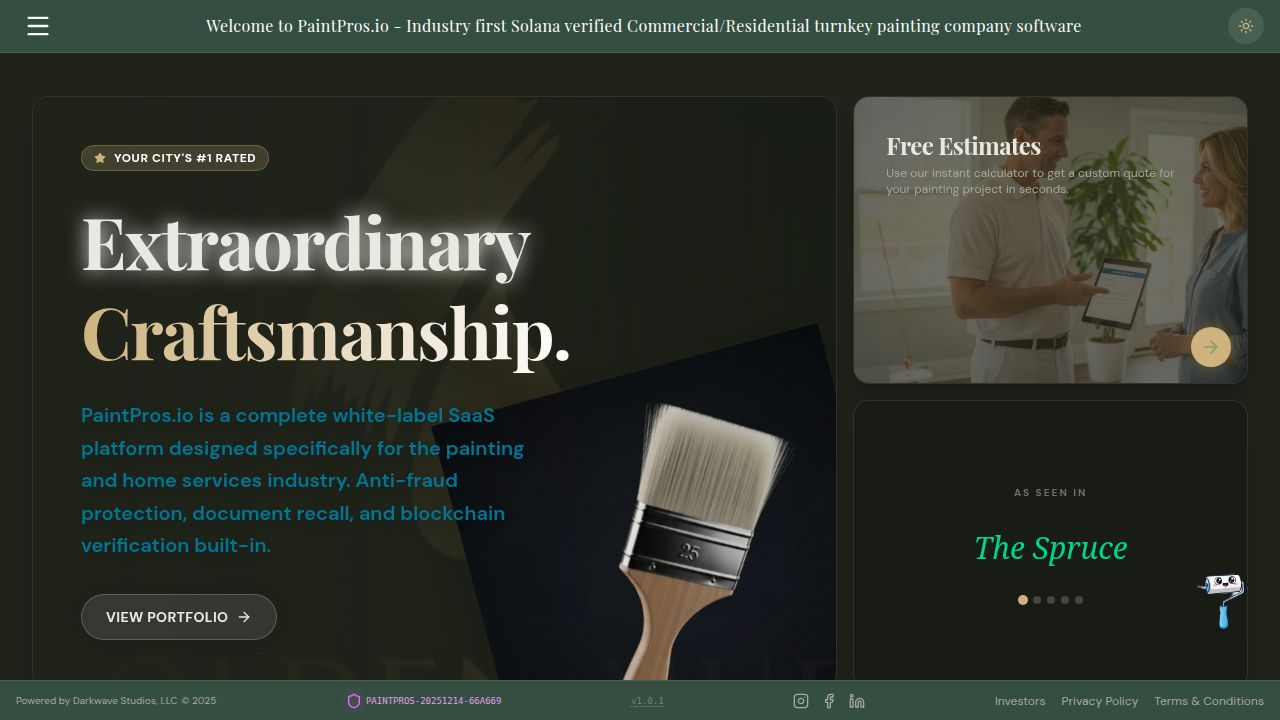
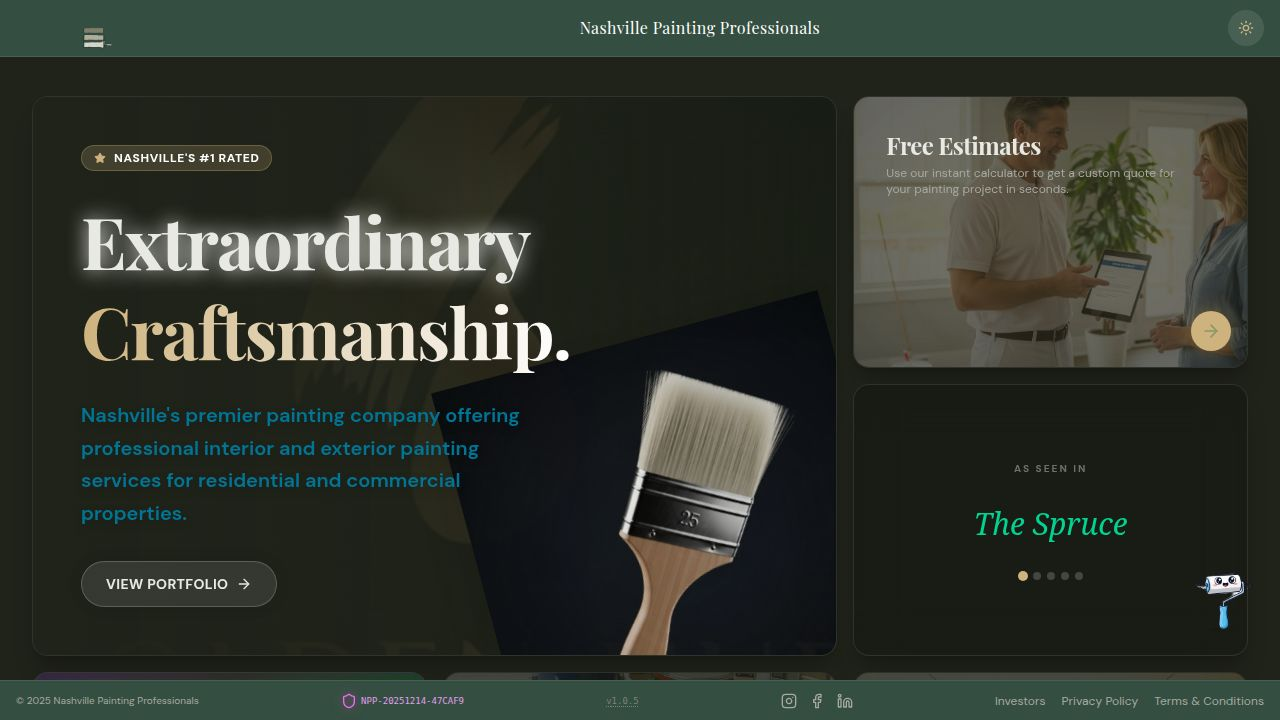
Implement subdomain routing and role-based access control for tenants
This commit introduces subdomain-based multi-tenancy by modifying tenant configuration and routing logic on both the client and server. It also enhances server-side authentication by adding role-based access control middleware, updates the user schema to include role and tenantId, and modifies storage operations to support these changes. The client-side TenantProvider has been updated to dynamically fetch tenant information.

Replit-Commit-Author: Agent
Replit-Commit-Session-Id: 9640b7bd-518e-421e-8382-ba3444a8e185
Replit-Commit-Checkpoint-Type: full_checkpoint
Replit-Commit-Event-Id: 45334b73-9146-4a81-bef5-f3d773d75e12
Replit-Commit-Screenshot-Url: https://storage.googleapis.com/screenshot-production-us-central1/57a1a84c-83d8-41f5-82c5-8661edb484a4/9640b7bd-518e-421e-8382-ba3444a8e185/y7aXQd3
Replit-Helium-Checkpoint-Created: true

diff --git a/server/routes.ts b/server/routes.ts
@@ -17,14 +17,56 @@ import { orbitEcosystem } from "./orbit";
 import * as hallmarkService from "./hallmarkService";
 import { sendContactEmail, type ContactFormData } from "./resend";
 import { setupAuth, isAuthenticated } from "./replitAuth";
+import type { RequestHandler } from "express";
+
+// Role-based access middleware
+const hasRole = (allowedRoles: string[]): RequestHandler => {
+  return async (req, res, next) => {
+    const user = req.user as any;
+    
+    if (!req.isAuthenticated() || !user?.claims?.sub) {
+      return res.status(401).json({ message: "Unauthorized" });
+    }
+    
+    try {
+      const userId = user.claims.sub;
+      const dbUser = await storage.getUser(userId);
+      
+      if (!dbUser) {
+        return res.status(401).json({ message: "User not found" });
+      }
+      
+      if (!dbUser.role || !allowedRoles.includes(dbUser.role)) {
+        return res.status(403).json({ message: "Forbidden: Insufficient role permissions" });
+      }
+      
+      (req as any).dbUser = dbUser;
+      return next();
+    } catch (error) {
+      console.error("Error checking user role:", error);
+      return res.status(500).json({ message: "Failed to verify permissions" });
+    }
+  };
+};
 
 // Domain to tenant mapping (server-side)
+// Full custom domains map directly
 const domainTenantMap: Record<string, string> = {
-  "paintpros.io": "paintpros",
-  "www.paintpros.io": "paintpros",
+  "paintpros.io": "demo",
+  "www.paintpros.io": "demo",
   "nashpaintpros.io": "npp",
   "www.nashpaintpros.io": "npp",
+  "nashvillepaintingprofessionals.com": "npp",
+  "www.nashvillepaintingprofessionals.com": "npp",
   "localhost": "npp",
+};
+
+// Subdomain to tenant mapping for *.paintpros.io
+const subdomainTenantMap: Record<string, string> = {
+  "nashpaintpros": "npp",
+  "npp": "npp",
+  "demo": "demo",
+  "www": "demo",
 };
 
 // PWA manifest configurations per tenant
@@ -56,7 +98,26 @@ const pwaConfigs: Record<string, {
 
 function getTenantFromHostname(hostname: string): string {
   const host = hostname.toLowerCase().split(':')[0]; // Remove port if present
-  return domainTenantMap[host] || "npp";
+  
+  // Check full domain mapping first (custom domains)
+  if (domainTenantMap[host]) {
+    return domainTenantMap[host];
+  }
+  
+  // Check for subdomain pattern: subdomain.paintpros.io
+  const parts = host.split('.');
+  if (parts.length >= 3) {
+    const subdomain = parts[0];
+    const baseDomain = parts.slice(-2).join('.');
+    
+    // Only parse subdomains for paintpros.io
+    if (baseDomain === 'paintpros.io' && subdomainTenantMap[subdomain]) {
+      return subdomainTenantMap[subdomain];
+    }
+  }
+  
+  // Default fallback
+  return "npp";
 }
 
 export async function registerRoutes(
@@ -77,6 +138,17 @@ export async function registerRoutes(
       console.error("Error fetching user:", error);
       res.status(500).json({ message: "Failed to fetch user" });
     }
+  });
+
+  // ============ TENANT API ============
+  
+  // GET /api/tenant - Get tenant ID based on hostname
+  app.get("/api/tenant", (req, res) => {
+    const tenantId = getTenantFromHostname(req.hostname);
+    res.json({ 
+      tenantId,
+      hostname: req.hostname
+    });
   });
 
   // ============ PWA ROUTES (Dynamic per tenant) ============

diff --git a/client/src/config/tenant.ts b/client/src/config/tenant.ts
@@ -266,27 +266,62 @@ export const tenants: Record<string, TenantConfig> = {
   "demo": paintProsDemo,
 };
 
-// Domain to tenant mapping
+// Domain to tenant mapping (custom domains)
 const domainTenantMap: Record<string, string> = {
   "paintpros.io": "demo",
   "www.paintpros.io": "demo",
   "nashpaintpros.io": "npp",
   "www.nashpaintpros.io": "npp",
+  "nashvillepaintingprofessionals.com": "npp",
+  "www.nashvillepaintingprofessionals.com": "npp",
+  "localhost": "npp",
 };
+
+// Subdomain to tenant mapping for *.paintpros.io
+const subdomainTenantMap: Record<string, string> = {
+  "nashpaintpros": "npp",
+  "npp": "npp",
+  "demo": "demo",
+  "www": "demo",
+};
+
+// Parse tenant from hostname (client-side)
+export function getTenantIdFromHostname(hostname: string): string {
+  const host = hostname.toLowerCase().split(':')[0];
+  
+  // Check full domain mapping first
+  if (domainTenantMap[host]) {
+    return domainTenantMap[host];
+  }
+  
+  // Check for subdomain pattern: subdomain.paintpros.io
+  const parts = host.split('.');
+  if (parts.length >= 3) {
+    const subdomain = parts[0];
+    const baseDomain = parts.slice(-2).join('.');
+    
+    if (baseDomain === 'paintpros.io' && subdomainTenantMap[subdomain]) {
+      return subdomainTenantMap[subdomain];
+    }
+  }
+  
+  // Fallback to env variable
+  return import.meta.env.VITE_TENANT_ID || "npp";
+}
 
 // Get current tenant based on domain or environment
 export function getCurrentTenant(): TenantConfig {
-  // Check if we're in a browser environment
   if (typeof window !== "undefined") {
-    const hostname = window.location.hostname.toLowerCase();
-    
-    // Check domain mapping first
-    if (domainTenantMap[hostname]) {
-      return tenants[domainTenantMap[hostname]] || nashvillePaintingProfessionals;
-    }
+    const tenantId = getTenantIdFromHostname(window.location.hostname);
+    return tenants[tenantId] || nashvillePaintingProfessionals;
   }
   
   // Fallback to environment variable (for dev/staging)
   const tenantId = import.meta.env.VITE_TENANT_ID || "npp";
+  return tenants[tenantId] || nashvillePaintingProfessionals;
+}
+
+// Get tenant by ID
+export function getTenantById(tenantId: string): TenantConfig {
   return tenants[tenantId] || nashvillePaintingProfessionals;
 }

diff --git a/client/src/context/TenantContext.tsx b/client/src/context/TenantContext.tsx
@@ -1,5 +1,5 @@
-import { createContext, useContext, ReactNode } from "react";
-import { TenantConfig, getCurrentTenant } from "@/config/tenant";
+import { createContext, useContext, ReactNode, useState, useEffect } from "react";
+import { TenantConfig, getCurrentTenant, getTenantById, getTenantIdFromHostname } from "@/config/tenant";
 
 const TenantContext = createContext<TenantConfig | null>(null);
 
@@ -9,7 +9,47 @@ interface TenantProviderProps {
 }
 
 export function TenantProvider({ children, tenant }: TenantProviderProps) {
-  const currentTenant = tenant || getCurrentTenant();
+  const [currentTenant, setCurrentTenant] = useState<TenantConfig>(
+    tenant || getCurrentTenant()
+  );
+  const [isLoading, setIsLoading] = useState(!tenant);
+
+  useEffect(() => {
+    if (tenant) {
+      setCurrentTenant(tenant);
+      setIsLoading(false);
+      return;
+    }
+
+    async function fetchTenant() {
+      try {
+        const response = await fetch('/api/tenant');
+        if (response.ok) {
+          const data = await response.json();
+          if (data.tenantId) {
+            const tenantConfig = getTenantById(data.tenantId);
+            setCurrentTenant(tenantConfig);
+          }
+        }
+      } catch (error) {
+        console.warn('Failed to fetch tenant from API, using client-side detection');
+        const tenantId = getTenantIdFromHostname(window.location.hostname);
+        setCurrentTenant(getTenantById(tenantId));
+      } finally {
+        setIsLoading(false);
+      }
+    }
+
+    fetchTenant();
+  }, [tenant]);
+
+  if (isLoading) {
+    return (
+      <TenantContext.Provider value={currentTenant}>
+        {children}
+      </TenantContext.Provider>
+    );
+  }
   
   return (
     <TenantContext.Provider value={currentTenant}>

diff --git a/server/storage.ts b/server/storage.ts
@@ -37,6 +37,9 @@ export interface IStorage {
   // User operations (for Replit Auth)
   getUser(id: string): Promise<User | undefined>;
   upsertUser(user: UpsertUser): Promise<User>;
+  getUserByEmail(email: string): Promise<User | undefined>;
+  updateUserRole(id: string, role: string, tenantId?: string): Promise<User | undefined>;
+  getUsersByTenant(tenantId: string): Promise<User[]>;
   
   // Leads
   createLead(lead: InsertLead): Promise<Lead>;
@@ -237,6 +240,24 @@ export class DatabaseStorage implements IStorage {
       })
       .returning();
     return user;
+  }
+
+  async getUserByEmail(email: string): Promise<User | undefined> {
+    const [user] = await db.select().from(users).where(eq(users.email, email));
+    return user;
+  }
+
+  async updateUserRole(id: string, role: string, tenantId?: string): Promise<User | undefined> {
+    const updateData: Partial<User> = { role, updatedAt: new Date() };
+    if (tenantId !== undefined) {
+      updateData.tenantId = tenantId;
+    }
+    const [user] = await db.update(users).set(updateData).where(eq(users.id, id)).returning();
+    return user;
+  }
+
+  async getUsersByTenant(tenantId: string): Promise<User[]> {
+    return await db.select().from(users).where(eq(users.tenantId, tenantId));
   }
 
   // Leads

diff --git a/shared/schema.ts b/shared/schema.ts
@@ -23,6 +23,8 @@ export const users = pgTable("users", {
   firstName: varchar("first_name"),
   lastName: varchar("last_name"),
   profileImageUrl: varchar("profile_image_url"),
+  role: text("role"), // 'developer', 'ops_manager', 'owner', 'area_manager'
+  tenantId: text("tenant_id"), // optional, for multi-tenant support
   createdAt: timestamp("created_at").defaultNow(),
   updatedAt: timestamp("updated_at").defaultNow(),
 });
